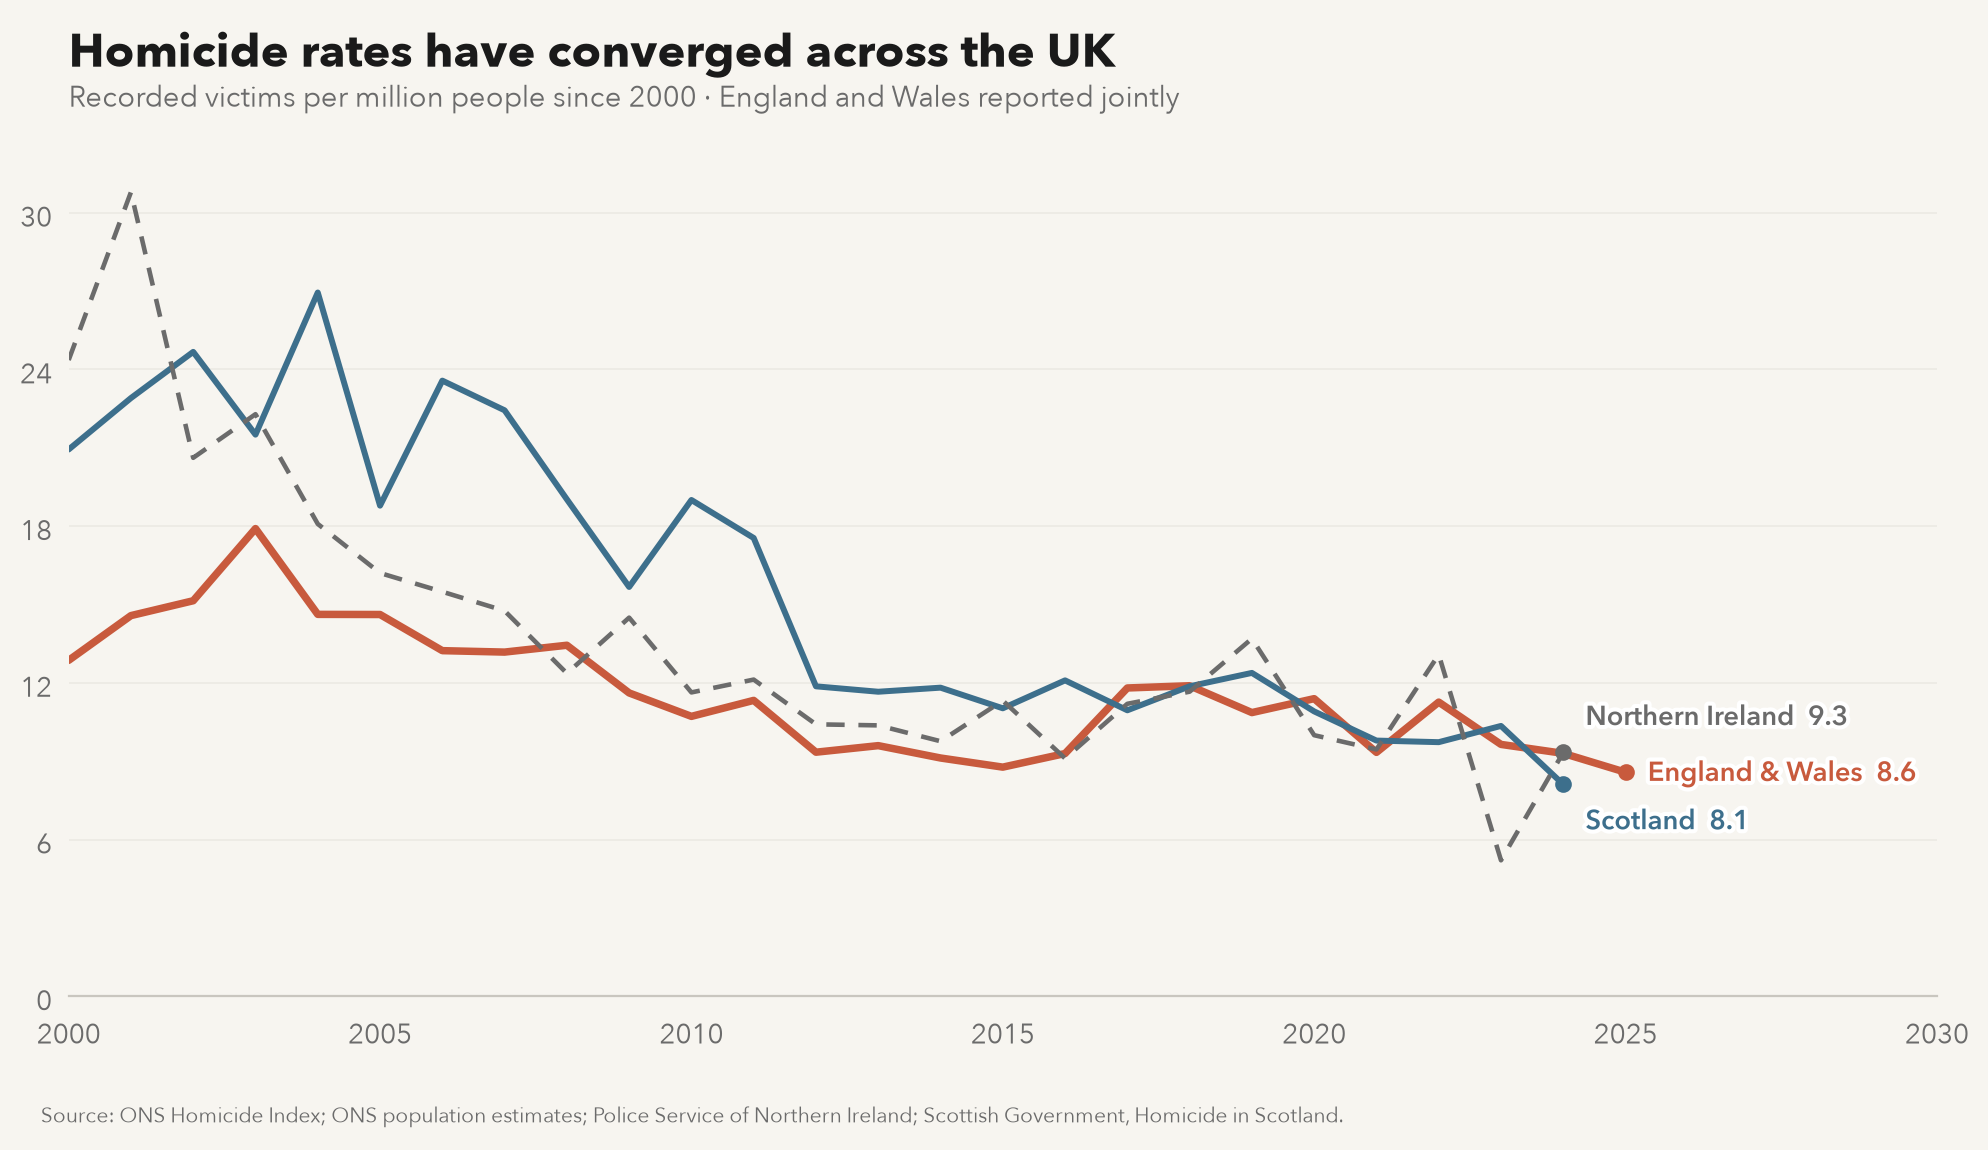
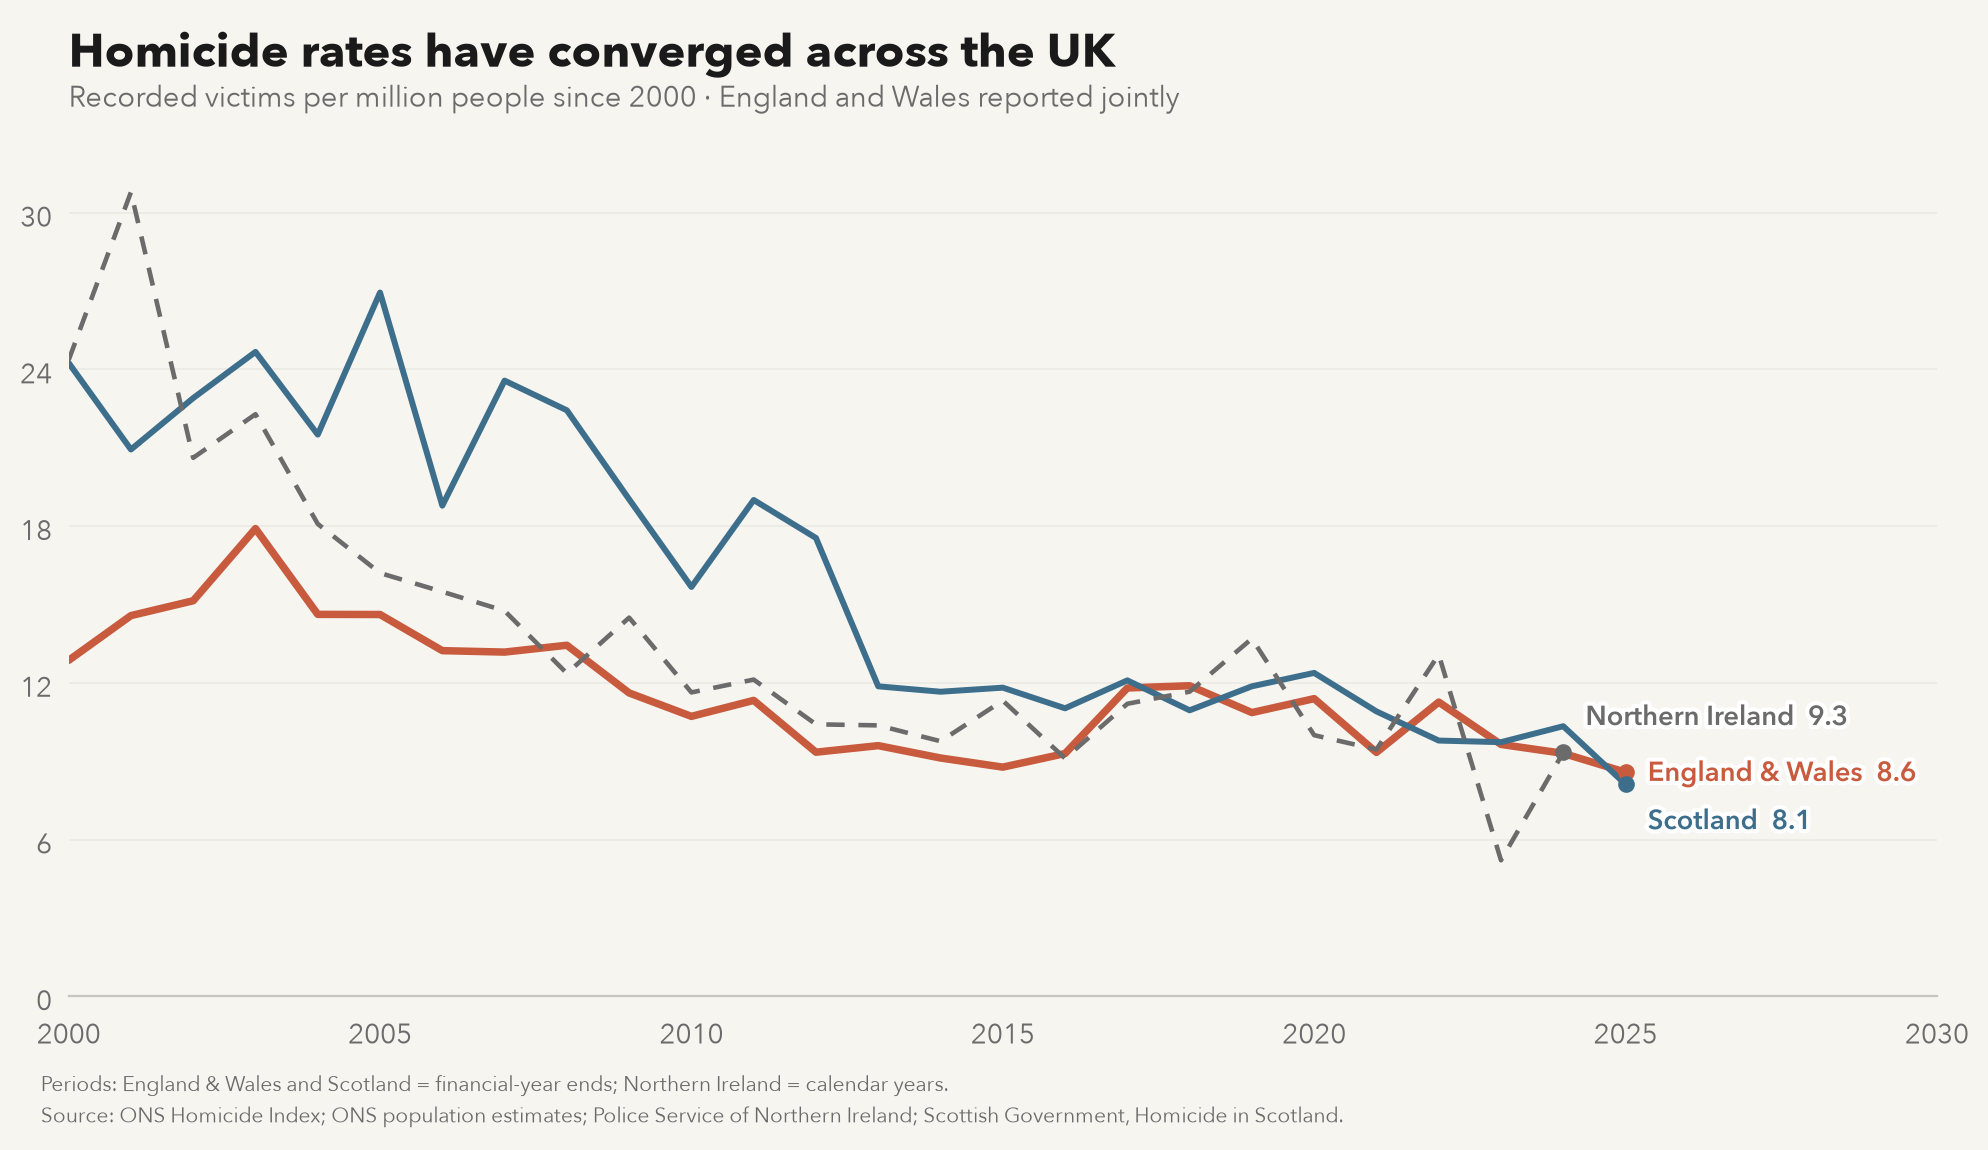
Correct homicide financial years and align fraud-share survey periods

Changed region(s): [[0.0312, 0.2435, 0.9044, 0.7304]]

diff --git a/crime_data/charts.py b/crime_data/charts.py
@@ -208,16 +208,17 @@ def chart_fraud_gap(df, out_dir):
     if excl.empty:
         return None
 
+    gap = incl.merge(excl, on="date", suffixes=("_incl", "_excl"))
+    if gap.empty:
+        raise ValueError("fraud-gap chart requires matching CSEW survey periods")
+    gap = gap.sort_values("date")
     fig, ax = plt.subplots(figsize=(10.5, 5.8))
     xe, ye = excl["date"], excl["value"] / 1_000.0
     xi, yi = incl["date"], incl["value"] / 1_000.0
-    # Shade the gap between the two totals over their shared periods (the "online" crime).
-    gap = incl.merge(excl, on="date", suffixes=("_incl", "_excl"))
-    if not gap.empty:
-        ax.fill_between(
-            gap["date"], gap["value_incl"] / 1_000.0,
-            gap["value_excl"] / 1_000.0, color=ACCENT, alpha=0.075,
-        )
+    ax.fill_between(
+        gap["date"], gap["value_incl"] / 1_000.0,
+        gap["value_excl"] / 1_000.0, color=ACCENT, alpha=0.075,
+    )
     ax.plot(xi, yi, color=ACCENT, linewidth=2.7, solid_capstyle="round")
     ax.plot(xe, ye, color=BLUE, linewidth=2.25, solid_capstyle="round")
     ax.plot([xi.iloc[-1]], [yi.iloc[-1]], "o", color=ACCENT, markersize=5, zorder=5)
@@ -227,17 +228,21 @@ def chart_fraud_gap(df, out_dir):
     _end_label(ax, xe.iloc[-1], ye.iloc[-1], f"Excluding fraud &\ncomputer misuse  {ye.iloc[-1]:.1f}M",
                BLUE)
 
-    fraud_and_misuse_share = (yi.iloc[-1] - ye.iloc[-1]) / yi.iloc[-1] * 100
-    latest_gap = yi.iloc[-1] - ye.iloc[-1]
+    latest = gap.iloc[-1]
+    fraud_and_misuse_share = (
+        (latest["value_incl"] - latest["value_excl"]) / latest["value_incl"] * 100
+    )
+    latest_gap = (latest["value_incl"] - latest["value_excl"]) / 1_000.0
     ax.annotate(
         f"{latest_gap:.1f}M fraud &\ncomputer misuse",
-        xy=(xi.iloc[-2], (yi.iloc[-2] + ye.iloc[-2]) / 2),
+        xy=(latest["date"], (latest["value_incl"] + latest["value_excl"]) / 2_000.0),
         xytext=(-48, 0), textcoords="offset points", ha="right", va="center",
         fontsize=9, color=MUTED,
     )
     _style_incidents_axes(
         ax,
-        f"Fraud & computer misuse: {fraud_and_misuse_share:.0f}% of headline crime",
+        f"Fraud & computer misuse: {fraud_and_misuse_share:.0f}% of headline crime "
+        f"({latest['date'].year})",
         "England & Wales · CSEW crime including vs excluding fraud and computer misuse",
         max(yi.max(), ye.max()) * 1.12,
     )
@@ -355,6 +360,12 @@ def chart_homicide_nations(df, out_dir):
     ax.yaxis.set_major_locator(mtick.MaxNLocator(nbins=6))
     _style_axes(ax)
     _source_note(fig, sub)
+    fig.text(
+        0.06, 0.052,
+        "Periods: England & Wales and Scotland = financial-year ends; "
+        "Northern Ireland = calendar years.",
+        ha="left", fontsize=7.5, color=MUTED,
+    )
     return _save(fig, out_dir, "crime_homicide_nations.png")
 
 

diff --git a/tests/test_crime.py b/tests/test_crime.py
@@ -188,9 +188,60 @@ def test_fraud_gap_labels_combined_fraud_and_computer_misuse(monkeypatch) -> Non
 
     monkeypatch.setattr(charts, "_save", capture)
     charts.chart_fraud_gap(df, Path("."))
-    assert captured["title"] == "Fraud & computer misuse: 55% of headline crime"
+    assert captured["title"] == "Fraud & computer misuse: 55% of headline crime (2026)"
     assert "Including fraud &\ncomputer misuse  0.1M" in captured["labels"]
     assert "Excluding fraud &\ncomputer misuse  0.0M" in captured["labels"]
+
+
+def test_fraud_gap_compares_matching_dates_and_handles_one_shared_period(monkeypatch):
+    df = pd.DataFrame([
+        {"offence_group": group, "date": date, "value": value, "source": "Test"}
+        for group, date, value in (
+            (charts.TOTAL_EXCL, "2024-03-31", 40),
+            (charts.TOTAL_INCL, "2024-03-31", 100),
+            (charts.TOTAL_INCL, "2025-03-31", 200),
+        )
+    ])
+    captured = {}
+
+    def capture(fig, out_dir, filename):
+        ax = fig.axes[0]
+        captured["title"] = ax.get_title(loc="left")
+        captured["gap_date"] = next(
+            text.xy[0] for text in ax.texts
+            if "M fraud &" in text.get_text()
+        )
+        charts.plt.close(fig)
+        return out_dir / filename
+
+    monkeypatch.setattr(charts, "_save", capture)
+    charts.chart_fraud_gap(df, Path("."))
+    assert captured["title"] == "Fraud & computer misuse: 60% of headline crime (2024)"
+    assert captured["gap_date"] == pd.Timestamp("2024-03-31")
+
+
+def test_homicide_financial_year_labels_use_end_year():
+    for label, year in (
+        ("1980-81", 1981), ("1999-00", 2000), ("2024/25", 2025),
+        ("2024–25", 2025), ("2024-2025", 2025),
+        ("Year ending March 2025", 2025), ("Mid-2024", 2024),
+    ):
+        assert nations._period_end_year(label) == year
+
+
+def test_scottish_homicide_uses_population_within_financial_year():
+    rows = nations._assemble_rows(
+        england_wales_rates={},
+        scotland_counts={2025: 45},
+        northern_ireland_counts={2024: 12},
+        scotland_population={2024: 5_000_000},
+        northern_ireland_population={2023: 1_000_000, 2024: 2_000_000},
+        start=2000,
+    )
+    by = {row["jurisdiction"]: row for row in rows}
+    assert by[nations.SCOTLAND]["year"] == 2025
+    assert by[nations.SCOTLAND]["value"] == 9.0
+    assert by[nations.NORTHERN_IRELAND]["value"] == 6.0
 
 
 def test_nation_homicide_rows_start_in_2000() -> None:

diff --git a/crime_data/nations.py b/crime_data/nations.py
@@ -108,7 +108,15 @@ def _scotland_download() -> bytes:
 
 
 def _period_end_year(value) -> int | None:
-    years = _YEAR_RE.findall(str(value))
+    text = str(value)
+    financial_year = re.search(r"((?:19|20)\d{2})\s*[-/–]\s*(\d{4}|\d{2})\b", text)
+    if financial_year:
+        start, end = financial_year.groups()
+        if len(end) == 4:
+            return int(end)
+        end_year = int(start) // 100 * 100 + int(end)
+        return end_year if end_year >= int(start) else end_year + 100
+    years = _YEAR_RE.findall(text)
     return int(years[-1]) if years else None
 
 
@@ -280,7 +288,8 @@ def _assemble_rows(
         (NORTHERN_IRELAND, northern_ireland_counts, northern_ireland_population),
     ):
         for year, count in counts.items():
-            population = populations.get(year)
+            population_year = year - 1 if jurisdiction == SCOTLAND else year
+            population = populations.get(population_year)
             if year >= start and population:
                 rows.append({
                     "jurisdiction": jurisdiction,

diff --git a/crime_data/README.md b/crime_data/README.md
@@ -69,7 +69,9 @@ official series.
   population estimates.
 - **Coverage:** reporting year 2000 to latest available.
 - Reporting periods differ slightly: England & Wales and Scotland use financial years
-  ending in the labelled year, while the PSNI chart uses calendar years.
+  ending in the labelled year, while the PSNI chart uses calendar years. Scotland's
+  denominator is the mid-year population within that financial year (for example,
+  mid-2024 for 2024–25); Northern Ireland uses the same calendar year's population.
 
 *(Not built: `data.police.uk` publishes a key-less police-recorded-crime API, but it is
 street-level and only spans recent years, so it is unsuitable for the long-run trend. It
